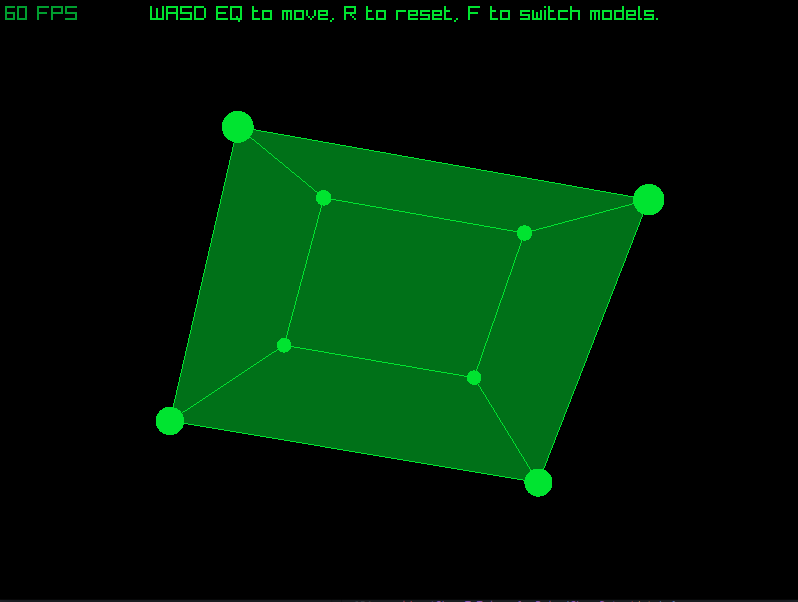
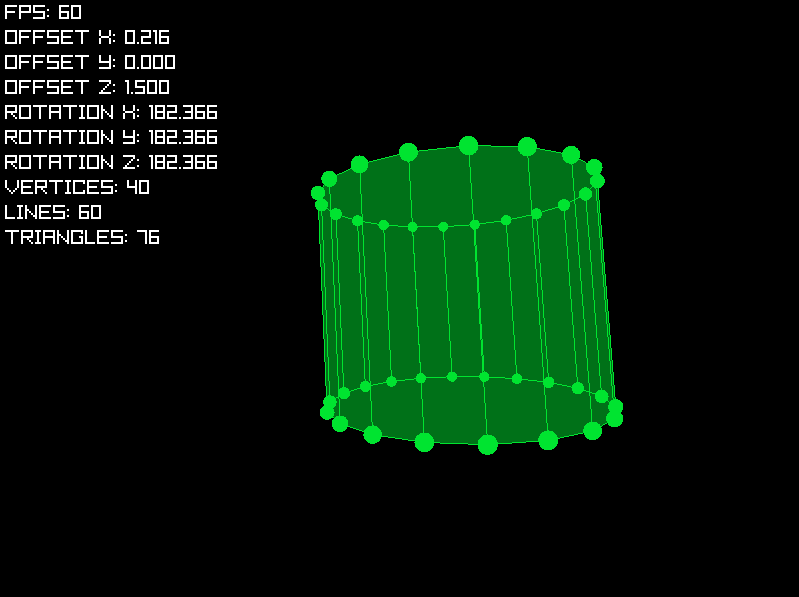
Added cylinder and debug menu. Updated README.md.

Changed region(s): [[0.0, 0.0, 0.8421, 0.8442], [0.0, 0.995, 1.0, 1.0], [0.1805, 0.392, 0.2105, 0.4221]]

diff --git a/source/shapes.c b/source/shapes.c
@@ -166,15 +166,216 @@ void setShapeToPyramid(ShapeData *data) {
    data->triangles = pyramidTriangles;
 }
 
+// Cylinder
+
+static int cylinderVerticeCount = 40;
+static Vector3 cylinderVertices[] = {
+   { 0.5000f,  0.5000f,  1.5000f},
+   { 0.4755f,  0.5000f,  1.6545f},
+   { 0.4045f,  0.5000f,  1.7939f},
+   { 0.2939f,  0.5000f,  1.9045f},
+   { 0.1545f,  0.5000f,  1.9755f},
+   {-0.0000f,  0.5000f,  2.0000f},
+   {-0.1545f,  0.5000f,  1.9755f},
+   {-0.2939f,  0.5000f,  1.9045f},
+   {-0.4045f,  0.5000f,  1.7939f},
+   {-0.4755f,  0.5000f,  1.6545f},
+   {-0.5000f,  0.5000f,  1.5000f},
+   {-0.4755f,  0.5000f,  1.3455f},
+   {-0.4045f,  0.5000f,  1.2061f},
+   {-0.2939f,  0.5000f,  1.0955f},
+   {-0.1545f,  0.5000f,  1.0245f},
+   { 0.0000f,  0.5000f,  1.0000f},
+   { 0.1545f,  0.5000f,  1.0245f},
+   { 0.2939f,  0.5000f,  1.0955f},
+   { 0.4045f,  0.5000f,  1.2061f},
+   { 0.4755f,  0.5000f,  1.3455f},
+   { 0.5000f, -0.5000f,  1.5000f},
+   { 0.4755f, -0.5000f,  1.6545f},
+   { 0.4045f, -0.5000f,  1.7939f},
+   { 0.2939f, -0.5000f,  1.9045f},
+   { 0.1545f, -0.5000f,  1.9755f},
+   {-0.0000f, -0.5000f,  2.0000f},
+   {-0.1545f, -0.5000f,  1.9755f},
+   {-0.2939f, -0.5000f,  1.9045f},
+   {-0.4045f, -0.5000f,  1.7939f},
+   {-0.4755f, -0.5000f,  1.6545f},
+   {-0.5000f, -0.5000f,  1.5000f},
+   {-0.4755f, -0.5000f,  1.3455f},
+   {-0.4045f, -0.5000f,  1.2061f},
+   {-0.2939f, -0.5000f,  1.0955f},
+   {-0.1545f, -0.5000f,  1.0245f},
+   { 0.0000f, -0.5000f,  1.0000f},
+   { 0.1545f, -0.5000f,  1.0245f},
+   { 0.2939f, -0.5000f,  1.0955f},
+   { 0.4045f, -0.5000f,  1.2061f},
+   { 0.4755f, -0.5000f,  1.3455f},
+};
+
+static int cylinderLineCount = 60;
+static Vector2 cylinderLines[] = {
+   {0, 1},
+   {1, 2},
+   {2, 3},
+   {3, 4},
+   {4, 5},
+   {5, 6},
+   {6, 7},
+   {7, 8},
+   {8, 9},
+   {9, 10},
+   {10, 11},
+   {11, 12},
+   {12, 13},
+   {13, 14},
+   {14, 15},
+   {15, 16},
+   {16, 17},
+   {17, 18},
+   {18, 19},
+   {19, 0},
+   {20, 21},
+   {21, 22},
+   {22, 23},
+   {23, 24},
+   {24, 25},
+   {25, 26},
+   {26, 27},
+   {27, 28},
+   {28, 29},
+   {29, 30},
+   {30, 31},
+   {31, 32},
+   {32, 33},
+   {33, 34},
+   {34, 35},
+   {35, 36},
+   {36, 37},
+   {37, 38},
+   {38, 39},
+   {39, 20},
+   {0, 20},
+   {1, 21},
+   {2, 22},
+   {3, 23},
+   {4, 24},
+   {5, 25},
+   {6, 26},
+   {7, 27},
+   {8, 28},
+   {9, 29},
+   {10, 30},
+   {11, 31},
+   {12, 32},
+   {13, 33},
+   {14, 34},
+   {15, 35},
+   {16, 36},
+   {17, 37},
+   {18, 38},
+   {19, 39},
+};
+
+static int cylinderTriangleCount = 76;
+static Vector3 cylinderTriangles[] = {
+   {0, 1, 2},
+   {0, 2, 3},
+   {0, 3, 4},
+   {0, 4, 5},
+   {0, 5, 6},
+   {0, 6, 7},
+   {0, 7, 8},
+   {0, 8, 9},
+   {0, 9, 10},
+   {0, 10, 11},
+   {0, 11, 12},
+   {0, 12, 13},
+   {0, 13, 14},
+   {0, 14, 15},
+   {0, 15, 16},
+   {0, 16, 17},
+   {0, 17, 18},
+   {0, 18, 19},
+   {20, 39, 38},
+   {20, 38, 37},
+   {20, 37, 36},
+   {20, 36, 35},
+   {20, 35, 34},
+   {20, 34, 33},
+   {20, 33, 32},
+   {20, 32, 31},
+   {20, 31, 30},
+   {20, 30, 29},
+   {20, 29, 28},
+   {20, 28, 27},
+   {20, 27, 26},
+   {20, 26, 25},
+   {20, 25, 24},
+   {20, 24, 23},
+   {20, 23, 22},
+   {20, 22, 21},
+   {20, 21, 1},
+   {1, 0, 20},
+   {21, 22, 2},
+   {2, 1, 21},
+   {22, 23, 3},
+   {3, 2, 22},
+   {23, 24, 4},
+   {4, 3, 23},
+   {24, 25, 5},
+   {5, 4, 24},
+   {25, 26, 6},
+   {6, 5, 25},
+   {26, 27, 7},
+   {7, 6, 26},
+   {27, 28, 8},
+   {8, 7, 27},
+   {28, 29, 9},
+   {9, 8, 28},
+   {29, 30, 10},
+   {10, 9, 29},
+   {30, 31, 11},
+   {11, 10, 30},
+   {31, 32, 12},
+   {12, 11, 31},
+   {32, 33, 13},
+   {13, 12, 32},
+   {33, 34, 14},
+   {14, 13, 33},
+   {34, 35, 15},
+   {15, 14, 34},
+   {35, 36, 16},
+   {16, 15, 35},
+   {36, 37, 17},
+   {17, 16, 36},
+   {37, 38, 18},
+   {18, 17, 37},
+   {38, 39, 19},
+   {19, 18, 38},
+   {39, 20, 0},
+   {0, 19, 39},
+};
+
+void setShapeToCylinder(ShapeData *data) {
+   data->verticeCount = cylinderVerticeCount;
+   data->lineCount = cylinderLineCount;
+   data->triangleCount = cylinderTriangleCount;
+
+   data->vertices = cylinderVertices;
+   data->lines = cylinderLines;
+   data->triangles = cylinderTriangles;
+}
+
 // Shape functions
 
 typedef void (*shapeFunction)(ShapeData*);
 
-static int shapeCount = 3;
+static int shapeCount = 4;
 static shapeFunction shapeGetters[] = {
    setShapeToCube,
    setShapeToTriangularPrism,
    setShapeToPyramid,
+   setShapeToCylinder,
 };
 
 void getCurrentShape(ShapeData *data) {

diff --git a/source/main.c b/source/main.c
@@ -15,6 +15,12 @@ int main() {
    Vector3 rotation = {0.0f, 0.0f, 0.0f};
    Vector3 offset   = {0.0f, 0.0f, 0.0f};
 
+   char drawIndeces   = 0;
+   char drawVertices  = 1;
+   char drawLines     = 1;
+   char drawTriangles = 1;
+   char drawStats     = 0;
+
    while (!WindowShouldClose()) {
       // Update
       const float dt = GetFrameTime();
@@ -27,13 +33,26 @@ int main() {
       rotation.y += dt * 0.333f;
       rotation.z += dt * 0.333f;
 
-      if (IsKeyPressed(KEY_R)) {
+      if (IsKeyPressed(KEY_R))
          rotation = offset = (Vector3){0.0f, 0.0f, 0.0f};
-      }
 
-      if (IsKeyPressed(KEY_F)) {
+      if (IsKeyPressed(KEY_F))
          getNextShape(&data);
-      }
+
+      if (IsKeyPressed(KEY_I))
+         drawIndeces = !drawIndeces;
+
+      if (IsKeyPressed(KEY_O))
+         drawVertices = !drawVertices;
+
+      if (IsKeyPressed(KEY_L))
+         drawLines = !drawLines;
+      
+      if (IsKeyPressed(KEY_T))
+         drawTriangles = !drawTriangles;
+      
+      if (IsKeyPressed(KEY_H))
+         drawStats = !drawStats;
 
       // Render
       BeginDrawing();
@@ -45,25 +64,43 @@ int main() {
             Vector2 translated = translateToScreen(rotated);
 
             data.points[i] = translated;
-            DrawCircleV(translated, 15.0f / rotated.z, FOREGROUND_COLOR);
+            if (drawVertices) {
+               DrawCircleV(translated, (rotated.z == 0.0f ? 0.0f : 10.0f / fabsf(rotated.z)), FOREGROUND_COLOR);
+            }
          }
 
-         for (int i = 0; i < data.lineCount; ++i) {
+         for (int i = 0; i < data.lineCount && drawLines; ++i) {
             Vector2 start = data.points[(int)data.lines[i].x];
             Vector2 end   = data.points[(int)data.lines[i].y];
             DrawLineV(start, end, FOREGROUND_COLOR);
          }
 
-         for (int i = 0; i < data.triangleCount; ++i) {
+         for (int i = 0; i < data.triangleCount && drawTriangles; ++i) {
             Vector2 point1 = data.points[(int)data.triangles[i].x];
             Vector2 point2 = data.points[(int)data.triangles[i].y];
             Vector2 point3 = data.points[(int)data.triangles[i].z];
             DrawTriangle(point1, point2, point3, Fade(FOREGROUND_COLOR, 0.5f));
          }
 
+         for (int i = 0; i < data.verticeCount && drawIndeces; ++i) {
+            DrawText(TextFormat("%d", i), data.points[i].x, data.points[i].y, 25, WHITE);
+         }
+
          // Draw UI
-         DrawFPS(5, 5);
-         DrawText("WASD EQ to move, R to reset, F to switch models.", 150, 5, 20.0f, FOREGROUND_COLOR);
+         if (drawStats) {
+            DrawText(TextFormat("FPS: %d", GetFPS()), 5, 5, 20, WHITE);
+            DrawText(TextFormat("OFFSET X: %.3f", offset.x), 5, 30, 20, WHITE);
+            DrawText(TextFormat("OFFSET Y: %.3f", offset.y), 5, 55, 20, WHITE);
+            DrawText(TextFormat("OFFSET Z: %.3f", offset.z + data.origin.z), 5, 80, 20, WHITE);
+
+            DrawText(TextFormat("ROTATION X: %.3f", fmodf(rotation.x * (180.0f / PI), 360.0f)), 5, 105, 20, WHITE);
+            DrawText(TextFormat("ROTATION Y: %.3f", fmodf(rotation.y * (180.0f / PI), 360.0f)), 5, 130, 20, WHITE);
+            DrawText(TextFormat("ROTATION Z: %.3f", fmodf(rotation.z * (180.0f / PI), 360.0f)), 5, 155, 20, WHITE);
+
+            DrawText(TextFormat("VERTICES: %d", data.verticeCount), 5, 180, 20, WHITE);
+            DrawText(TextFormat("LINES: %d", data.lineCount), 5, 205, 20, WHITE);
+            DrawText(TextFormat("TRIANGLES: %d", data.triangleCount), 5, 230, 20, WHITE);
+         }
       EndDrawing();
    }
 
